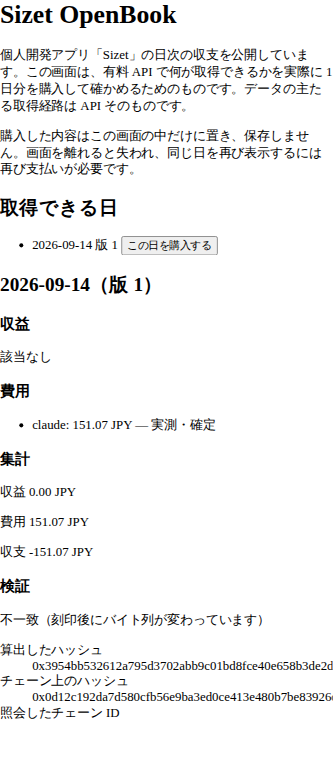
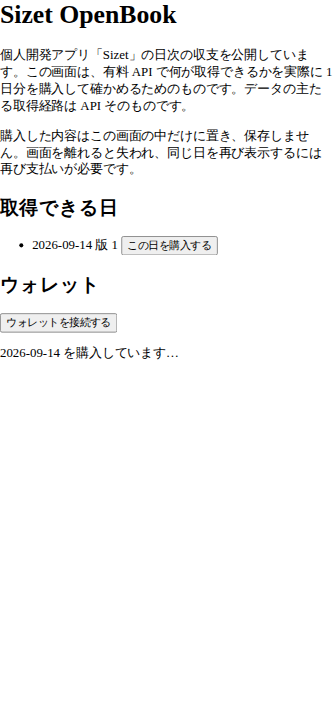
ウォレットへ渡す EIP-712 に EIP712Domain を含める
実際のウォレットで預け入れのトランザクションが FiatTokenV2: invalid signature
で失敗した。署名から署名者を復元すると別のアドレスになり、想定と異なる内容へ
署名されていた。

eth_signTypedData_v4 は types の EIP712Domain からドメインを符号化する。
省くとウォレットは別のドメインで署名する。署名そのものは返るため、送信して
初めて失敗が分かる。取次の公式手順も、ウォレットへ渡す前に EIP712Domain を
明示的に足している。

同じ誤りが支払い側にもあった。実際の支払いを確かめた際は viem が直接署名して
おり、ウォレットを経由する経路が一度も試されていなかった。両方を共通の直列化
へ通した。

疑似のウォレットが EIP712Domain を要求するようにし、この取り違えをテストで
捕まえられるようにした。導入時に 16 件が失敗することを確認している。

diff --git a/apps/web/src/typed-data.ts b/apps/web/src/typed-data.ts
@@ -1,0 +1,55 @@
+/**
+ * ウォレットへ渡す EIP-712 の内容の組み立て。
+ *
+ * `eth_signTypedData_v4` は、`types` に `EIP712Domain` があることを前提に
+ * ドメインを符号化する。省くとウォレットは別のドメインで署名し、コントラクトが
+ * 署名を拒む。署名そのものは返るため、送信して初めて失敗が分かる。
+ *
+ * 2026-09-17 に実際のウォレットで `FiatTokenV2: invalid signature` として現れた。
+ * 署名から署名者を復元すると別のアドレスになり、想定と異なる内容に署名されて
+ * いたことを確認している。
+ */
+
+/** ドメインの項目名と EIP-712 の型の対応。 */
+const DOMAIN_FIELD_TYPES: Record<string, string> = {
+  name: 'string',
+  version: 'string',
+  chainId: 'uint256',
+  verifyingContract: 'address',
+  salt: 'bytes32',
+};
+
+/**
+ * `eth_signTypedData_v4` へ渡す JSON を組み立てる。
+ *
+ * ドメインが実際に持つ項目から `EIP712Domain` の定義を作る。定義と内容がずれると
+ * ウォレットの符号化も変わるため、固定の定義を書かずに内容から導く。
+ *
+ * @param domain EIP-712 のドメイン
+ * @param types 署名する型の定義（`EIP712Domain` を含めない）
+ * @param primaryType 署名する型の名前
+ * @param message 署名する内容
+ * @returns ウォレットへ渡す JSON の文字列
+ */
+export function toSignTypedDataPayload(
+  domain: Record<string, unknown>,
+  types: Record<string, readonly { name: string; type: string }[]>,
+  primaryType: string,
+  message: Readonly<Record<string, unknown>>,
+): string {
+  const domainType = Object.keys(domain).map((name) => {
+    const type = DOMAIN_FIELD_TYPES[name];
+    if (type === undefined) {
+      throw new Error(`扱わないドメインの項目です: ${name}`);
+    }
+
+    return { name, type };
+  });
+
+  return JSON.stringify({
+    domain,
+    types: { EIP712Domain: domainType, ...types },
+    primaryType,
+    message,
+  });
+}

diff --git a/apps/web/test/support/wallet-stub.ts b/apps/web/test/support/wallet-stub.ts
@@ -146,7 +146,21 @@ function parseTypedData(payload: string): Parameters<
     message: Record<string, unknown>;
   };
 
-  const fields = parsed.types[parsed.primaryType] ?? [];
+  // 実物のウォレットは `types` の `EIP712Domain` からドメインを符号化する。
+  // 欠けていると別のドメインで署名され、コントラクトが署名を拒む。
+  // 疑似の実装でも同じ要求を課し、この取り違えをテストで捕まえる。
+  if (parsed.types['EIP712Domain'] === undefined) {
+    throw new Error('types に EIP712Domain がありません');
+  }
+
+  const domainFields = parsed.types['EIP712Domain'].map((field) => field.name).sort();
+  const actualFields = Object.keys(parsed.domain).sort();
+  if (JSON.stringify(domainFields) !== JSON.stringify(actualFields)) {
+    throw new Error('EIP712Domain の項目がドメインの内容と一致しません');
+  }
+
+  const { EIP712Domain: _domainType, ...signedTypes } = parsed.types;
+  const fields = signedTypes[parsed.primaryType] ?? [];
   const message: Record<string, unknown> = { ...parsed.message };
 
   for (const field of fields) {
@@ -157,7 +171,7 @@ function parseTypedData(payload: string): Parameters<
 
   return {
     domain: parsed.domain,
-    types: parsed.types,
+    types: signedTypes,
     primaryType: parsed.primaryType,
     message,
   } as Parameters<ReturnType<typeof privateKeyToAccount>['signTypedData']>[0];

diff --git a/apps/web/test/wallet-stub.test.ts b/apps/web/test/wallet-stub.test.ts
@@ -42,6 +42,12 @@ describe('ウォレットの疑似の実装', () => {
         verifyingContract: '0x0077777d7eba4688bdef3e311b846f25870a19b9' as const,
       },
       types: {
+        EIP712Domain: [
+          { name: 'name', type: 'string' },
+          { name: 'version', type: 'string' },
+          { name: 'chainId', type: 'uint256' },
+          { name: 'verifyingContract', type: 'address' },
+        ],
         TransferWithAuthorization: [
           { name: 'from', type: 'address' },
           { name: 'to', type: 'address' },
@@ -69,7 +75,11 @@ describe('ウォレットの疑似の実装', () => {
       )],
     });
 
-    expect(viaStub).toBe(await account.signTypedData(typedData));
+    // 局所アカウントの署名は EIP712Domain を型に含めない。
+    const { EIP712Domain: _omit, ...signedTypes } = typedData.types;
+    expect(viaStub).toBe(
+      await account.signTypedData({ ...typedData, types: signedTypes }),
+    );
   });
 
   it('接続していなければアドレスを返さない', async () => {

diff --git a/apps/web/src/deposit.ts b/apps/web/src/deposit.ts
@@ -5,6 +5,7 @@ import { GATEWAY_WALLET_ABI } from '@openbook/shared';
 
 import { ARC_RPC_URL, GATEWAY_WALLET, PAYMENT_ASSET } from './config.js';
 import type { EthereumProvider } from './preconditions.js';
+import { toSignTypedDataPayload } from './typed-data.js';
 
 /**
  * 決済の取次へ預け入れた残高の照会と、画面からの預け入れ。
@@ -162,12 +163,12 @@ export async function deposit(value: bigint, deps: DepositDeps): Promise<Deposit
     method: 'eth_signTypedData_v4',
     params: [
       deps.address,
-      JSON.stringify({
-        domain: built.domain,
-        types: built.types,
-        primaryType: built.primaryType,
-        message: built.authorization,
-      }),
+      toSignTypedDataPayload(
+        built.domain,
+        built.types,
+        built.primaryType,
+        { ...built.authorization },
+      ),
     ],
   })) as `0x${string}`;
 

diff --git a/apps/web/src/payment.ts b/apps/web/src/payment.ts
@@ -1,5 +1,6 @@
 import type { PaymentTerms } from './api.js';
 import type { EthereumProvider } from './preconditions.js';
+import { toSignTypedDataPayload } from './typed-data.js';
 
 /**
  * 支払いの署名の組み立て。
@@ -104,12 +105,12 @@ export async function signPayment(
   ethereum: EthereumProvider,
   built: BuiltAuthorization,
 ): Promise<string> {
-  const payload = JSON.stringify({
-    domain: built.domain,
-    types: built.types,
-    primaryType: 'TransferWithAuthorization',
-    message: built.authorization,
-  });
+  const payload = toSignTypedDataPayload(
+    built.domain,
+    built.types,
+    'TransferWithAuthorization',
+    { ...built.authorization },
+  );
 
   return (await ethereum.request({
     method: 'eth_signTypedData_v4',
